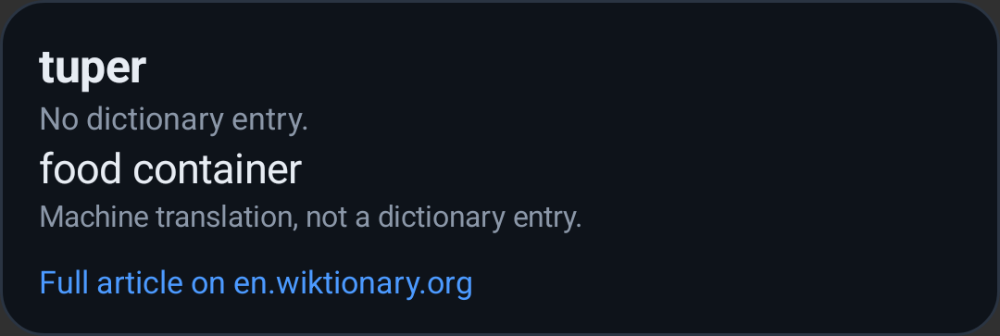
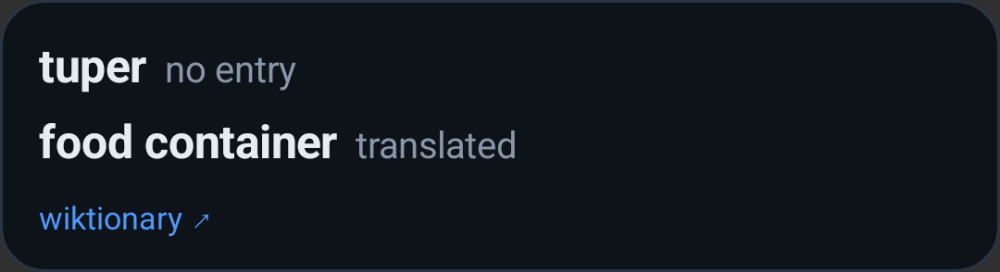
Keep the answer off the hand, and say it in tags rather than sentences
The card went below the word whenever there was more room below than above, which for any
word in the top half of a screen is under the hand holding the circle. Below is never where
it belongs: everything from the word down is the circle, the finger on it and the arm behind
that. It goes above whenever there is enough room there to read an answer at all, and when
there genuinely is not, it clears the hand rather than the circle.

What it says is now what it has to say. "No German dictionary installed, so nothing explains
this word in English" is a paragraph to read instead of the answer that was asked for; it is
a tag beside the word now, and so is the rest: no entry, translated, wiktionary. A card that
was five lines of prose is three lines, most of them the word and its meaning.

Claude-Session: https://claude.ai/code/session_01PKgmfBqV4zmMFvjP79icSi

diff --git a/app/src/main/java/de/tieo/taplex/HoverController.kt b/app/src/main/java/de/tieo/taplex/HoverController.kt
@@ -74,6 +74,9 @@ class HoverController(
     /** Where the circle is pointing, kept so a late reading can still answer it. */
     private var aim: Point? = null
 
+    /** Where the hand is, which is the half of the screen the answer must stay out of. */
+    private var handY: Int = 0
+
     /** How big the circle around that point is, which the card has to clear. */
     private var aimRadius = 0
 
@@ -367,12 +370,17 @@ class HoverController(
         // worth less than an answer that runs off the display.
         val circle = aim
         val circleTop = circle?.let { it.y - aimRadius } ?: word.top
-        val circleBottom = circle?.let { it.y + aimRadius } ?: word.bottom
         val clearOf = minOf(word.top, circleTop) - margin
-        val under = maxOf(word.bottom, circleBottom) + margin
+        // Below is where the hand is. Everything from the word down is the circle, the
+        // finger holding it and the arm behind that, so the answer goes above whenever
+        // there is room to read it there - not merely when there is more room than below,
+        // which put it under the hand for any word in the top half of the screen. When
+        // there is no room above, it clears the hand rather than the circle.
+        val under = maxOf(word.bottom, handY + (36 * density).toInt()) + margin
         val roomAbove = clearOf - margin
         val roomBelow = screen.height() - under - margin
-        val goesAbove = roomAbove >= roomBelow
+        val goesAbove = roomAbove >= minOf(maxHeight, (READABLE_DP * density).toInt()) ||
+            roomAbove >= roomBelow
         val room = (if (goesAbove) roomAbove else roomBelow).coerceAtMost(maxHeight)
 
         val params = if (goesAbove) {
@@ -685,6 +693,7 @@ class HoverController(
             bubbleY = (event.rawY - radius).toInt()
             windowManager.updateViewLayout(this, bubbleParams(size))
             val aimY = event.rawY - lift
+            handY = event.rawY.toInt()
             if (!formed) {
                 formed = true
                 masked = true
@@ -715,6 +724,10 @@ class HoverController(
          * half the contact patch and its own radius.
          */
         const val CLEARANCE = 1.1f
+
+        /** Enough of an answer to be worth reading, in dp: above the word is preferred to
+         *  below it down to this, because below it is the hand. */
+        const val READABLE_DP = 170f
 
         /** How far off a word the circle may be and still mean it. */
         const val SLACK_DP = 12f

diff --git a/app/src/main/java/de/tieo/taplex/EntryView.kt b/app/src/main/java/de/tieo/taplex/EntryView.kt
@@ -80,13 +80,17 @@ class EntryView(context: Context) : ScrollView(context) {
         column.removeAllViews()
 
         if (entries.isEmpty()) {
-            column.addView(headline(tapped, null, null))
+            // A tag, not a sentence. Someone holding a finger over a word is reading the
+            // word, and a line of prose explaining why there is no entry is a line they
+            // have to read instead of the answer they asked for.
             column.addView(
-                line(note ?: context.getString(R.string.no_entry), size = 13f, color = MUTED)
+                headline(tapped, note ?: context.getString(R.string.no_entry), null)
             )
             if (!translation.isNullOrBlank()) {
-                column.addView(line(translation, size = 17f))
-                column.addView(line(context.getString(R.string.guessed), size = 12f, color = MUTED))
+                column.addView(
+                    headline(translation, context.getString(R.string.guessed), null)
+                        .apply { setPadding(0, dp(6), 0, 0) }
+                )
             }
             column.addView(
                 line(context.getString(R.string.open_article, glossLanguage), size = 13f, color = LINK)
@@ -102,7 +106,7 @@ class EntryView(context: Context) : ScrollView(context) {
             if (index > 0) column.addView(divider())
             column.addView(headline(entry.lemma, entry.pos, entry.ipa))
             val form = when {
-                entry.label != null -> context.getString(R.string.form_of, tapped, entry.label, entry.lemma)
+                entry.label != null -> context.getString(R.string.form_of, tapped, entry.label)
                 !entry.lemma.equals(tapped, ignoreCase = true) ->
                     context.getString(R.string.tapped_form, tapped)
                 else -> null
